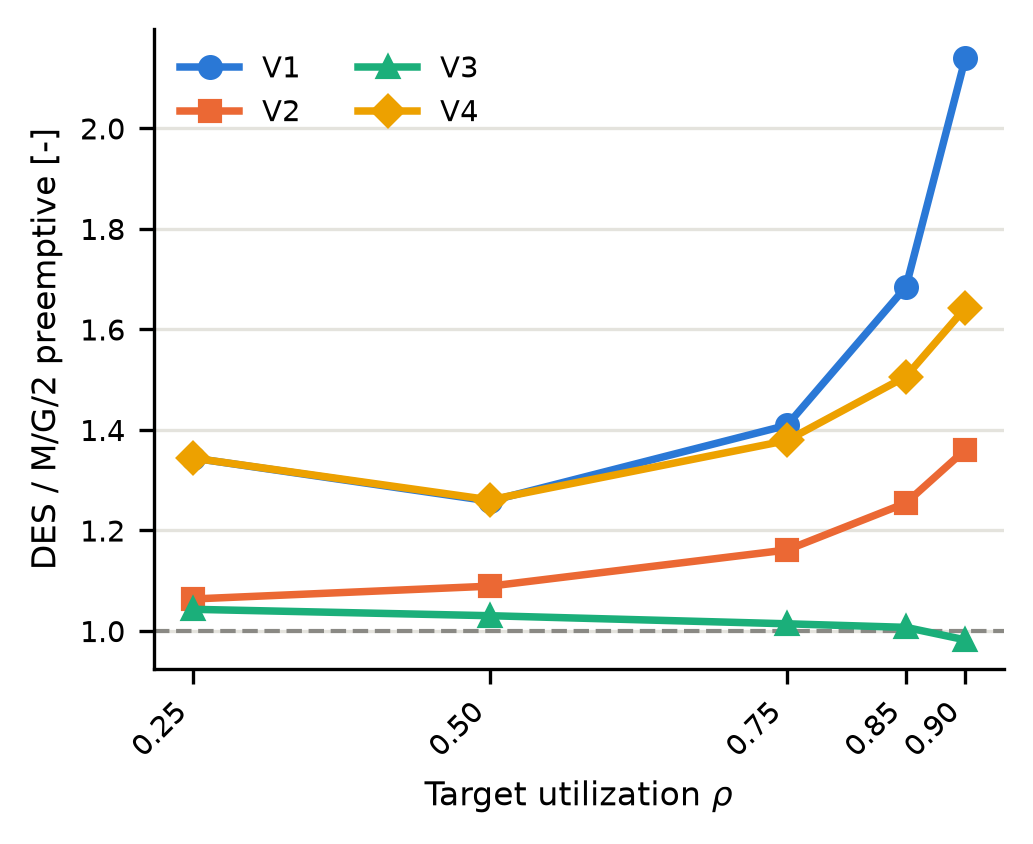
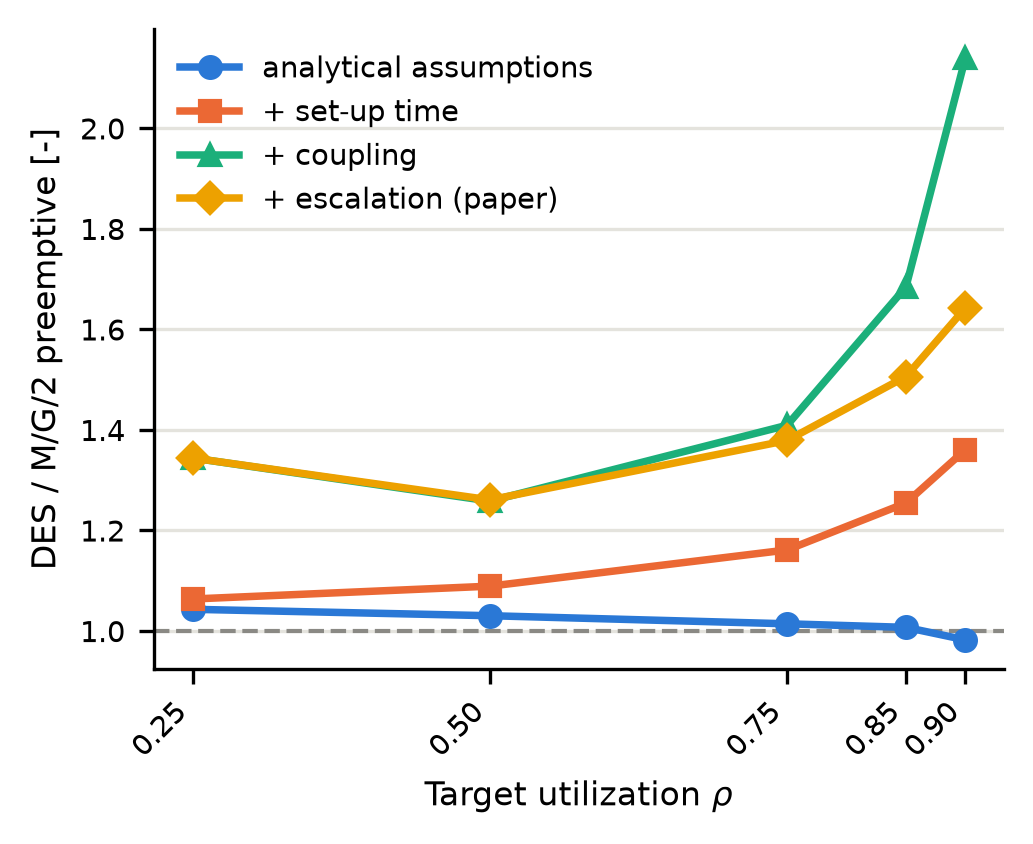
order des variants by added mecha

diff --git a/scripts/analysis/run_analytical_vs_des.py b/scripts/analysis/run_analytical_vs_des.py
@@ -22,14 +22,24 @@ OUTPUT_PNG = RESULTS_DIR / "analytical_vs_des/decomposition_ratio.png"
 # None is the baseline with its own rates and horizon (rho = 0.255); the others match the sensitivity.
 LOADS = [(None, 5000.0), (0.25, 50000.0), (0.50, 50000.0), (0.75, 50000.0), (0.85, 50000.0), (0.90, 50000.0)]
 
-# (identifier, label, build_variant options). The identifier is the series name of the figure.
+# (identifier, label, build_variant options). The variants form a chain: V1 meets the assumptions of
+# the analytical models (no coupling, no escalation, no set-up time after a preemption), and each
+# next variant adds one mechanism of the paper configuration: V2 the set-up time, V3 the coupling of
+# bays and engineers (15 instead of 16 engineers), V4 the escalation. The run order does not affect
+# the numbers: seeds depend only on the replication index (common random numbers).
 DES_VARIANTS = [
-    ("V1", "no escalation, 15 engineers", {"escalation": False}),
+    ("V1", "no escalation, 16 engineers, no set-up time", {"escalation": False, "mechanics": 16, "setup": 0.0}),
     ("V2", "no escalation, 16 engineers", {"escalation": False, "mechanics": 16}),
-    # Closest to the analytical assumptions: no coupling, no escalation and no set-up time after a preemption.
-    ("V3", "no escalation, 16 engineers, no set-up time", {"escalation": False, "mechanics": 16, "setup": 0.0}),
+    ("V3", "no escalation, 15 engineers", {"escalation": False}),
     ("V4", "paper configuration", {}),
 ]
+# Legend of the figure: the mechanism each variant adds, so the figure reads without the identifiers.
+LEGEND_LABELS = {
+    "V1": "analytical assumptions",
+    "V2": "+ set-up time",
+    "V3": "+ coupling",
+    "V4": "+ escalation (paper)",
+}
 
 # (label, DES field, analytical priority field, whether the FCFS model has a value, field of the
 # CM-only M/G/1). The CM-only reference is a single bay serving the CM stream alone, so it speaks
@@ -55,9 +65,11 @@ FIGURE_RHOS = [rho for rho, _ in LOADS if rho is not None]
 FIGURE_CAPTION = (
     "Ratio of the DES mean waiting time to the M/G/2 preemptive-resume approximation over the load, "
     "per DES variant. 1.0 is agreement, above 1.0 the DES waits longer than the analytical model. "
-    "V1 no escalation and 15 engineers, V2 no escalation and 16 engineers, V3 additionally without "
-    "set-up time, V4 the paper configuration. The baseline load is left out because its rates are "
-    "not on the target-rho grid. 30 replications of 50,000 h per point."
+    "Each variant adds one mechanism to the previous one: analytical assumptions (16 engineers, no "
+    "escalation, no set-up time), + set-up time, + coupling (15 engineers), + escalation (paper "
+    "configuration). Up to rho = 0.50 the last two coincide, since hardly any PM task escalates. "
+    "The baseline load is left out because its rates are not on the target-rho grid. 30 replications "
+    "of 50,000 h per point, common random numbers."
 )
 
 
@@ -91,7 +103,7 @@ def plot_decomposition(table: pd.DataFrame) -> None:
             marker=marker,
             markersize=5,
             linewidth=1.8,
-            label=identifier,
+            label=LEGEND_LABELS[identifier],
         )
     ax.set_xlabel(r"Target utilization $\rho$", fontsize=FIGURE_FONT["label"])
     ax.set_ylabel("DES / M/G/2 preemptive [-]", fontsize=FIGURE_FONT["label"])
@@ -101,7 +113,7 @@ def plot_decomposition(table: pd.DataFrame) -> None:
     ax.tick_params(labelsize=FIGURE_FONT["tick"])
     ax.grid(axis="y", color="#e4e3dd", linewidth=0.8)
     ax.spines[["top", "right"]].set_visible(False)
-    ax.legend(loc="upper left", frameon=False, fontsize=FIGURE_FONT["legend"], ncols=2)
+    ax.legend(loc="upper left", frameon=False, fontsize=FIGURE_FONT["legend"])
     fig.savefig(OUTPUT_PNG, dpi=300, bbox_inches="tight")
     plt.close(fig)
 

diff --git a/scripts/analysis/run_threshold_sweep.py b/scripts/analysis/run_threshold_sweep.py
@@ -26,10 +26,13 @@ PLOT_LOADS = ["0.75", "0.85", "0.90"]
 PAPER_THRESHOLD = 14.0
 # Categorical slots 1-3 of the validated palette; the marker shape is the second encoding.
 SERIES = [("Wq", "Total", "#2a78d6", "o"), ("Wq_CM", "CM", "#eb6834", "s"), ("Wq_PM", "PM", "#1baf7a", "^")]
+# Both columns of the ACM template (7.0 in), with the point sizes of the other paper figures.
+FIGURE_SIZE = (7.0, 2.6)
+FIGURE_FONT = {"tick": 7, "label": 8, "legend": 7, "title": 8}
 
 # The image carries no footnote: this text belongs in the caption of the paper, see outputs/MANIFEST.md.
 FIGURE_CAPTION = (
-    "Mean waiting time Wq over the escalation threshold X, one panel per load, each with its own "
+    "Mean waiting time W_q over the escalation threshold X, one panel per load, each with its own "
     "scale. Dashed line: X = 14 h of the paper. X = none is strict priority. Bands: 95 % Student-t "
     "intervals over 30 replications."
 )
@@ -43,21 +46,24 @@ def plot(table: pd.DataFrame) -> None:
     """Wq over X per load, one panel each with its own scale, 95 % band per class."""
     labels = ["none" if x is None else f"{x:g}" for x in THRESHOLDS]
     positions = range(len(labels))
-    fig, axes = plt.subplots(1, len(PLOT_LOADS), figsize=(12, 4), constrained_layout=True)
+    fig, axes = plt.subplots(1, len(PLOT_LOADS), figsize=FIGURE_SIZE, constrained_layout=True)
     for ax, load in zip(axes, PLOT_LOADS, strict=True):
         rows = table[table["load"] == load]
         for column, label, color, marker in SERIES:
             ax.fill_between(positions, rows[f"{column}_ci_lower"], rows[f"{column}_ci_upper"], color=color, alpha=0.15, linewidth=0)
-            ax.plot(positions, rows[column], color=color, marker=marker, markersize=6, linewidth=2, label=label)
+            ax.plot(positions, rows[column], color=color, marker=marker, markersize=4, linewidth=1.5, label=label)
         ax.axvline(THRESHOLDS.index(PAPER_THRESHOLD), color="#8a8984", linestyle="--", linewidth=1)
-        ax.set_title(r"$\rho$ = " + load, color="#1a1a19")
+        ax.set_title(r"$\rho$ = " + load, color="#1a1a19", fontsize=FIGURE_FONT["title"])
         ax.set_xticks(list(positions), labels)
-        ax.set_xlabel("Escalation threshold X [h]")
+        ax.set_xlabel("Escalation threshold $X$ [h]", fontsize=FIGURE_FONT["label"])
+        ax.tick_params(labelsize=FIGURE_FONT["tick"])
         ax.set_ylim(bottom=0)
         ax.grid(axis="y", color="#e4e3dd", linewidth=0.8)
         ax.spines[["top", "right"]].set_visible(False)
-    axes[0].set_ylabel("Mean waiting time Wq [h]")
-    axes[0].legend(loc="upper left", frameon=False)
+    axes[0].set_ylabel("Mean waiting time $W_q$ [h]", fontsize=FIGURE_FONT["label"])
+    # One legend above the panels: inside the first panel it would cover the PM curve.
+    handles, labels = axes[0].get_legend_handles_labels()
+    fig.legend(handles, labels, loc="outside upper center", ncols=len(SERIES), frameon=False, fontsize=FIGURE_FONT["legend"])
     fig.savefig(OUTPUT_PNG, dpi=300, bbox_inches="tight")
     plt.close(fig)
 

diff --git a/scripts/reproduction/run_high_precision_target_rho_sensitivity_analysis.py b/scripts/reproduction/run_high_precision_target_rho_sensitivity_analysis.py
@@ -255,7 +255,7 @@ def plot_main_figure(confidence_intervals: pd.DataFrame, target: Path) -> None:
         rows = band_series(confidence_intervals, metric)
         left.fill_between(rows["target_rho"], rows["ci_lower"], rows["ci_upper"], color=color, alpha=0.25, linewidth=0)
         left.plot(rows["target_rho"], rows["mean"], color=color, marker=marker, markersize=5, linewidth=1.8, label=label)
-    left.set_ylabel("Mean waiting time Wq [h]", fontsize=MAIN_FIGURE_FONT["label"])
+    left.set_ylabel("Mean waiting time $W_q$ [h]", fontsize=MAIN_FIGURE_FONT["label"])
     left.legend(loc="upper left", frameon=False, fontsize=MAIN_FIGURE_FONT["legend"])
 
     metric, label, color, marker = ESCALATION_SERIES

diff --git a/outputs/MANIFEST.md b/outputs/MANIFEST.md
@@ -36,7 +36,7 @@ Common settings: paper configuration from `config/scenarios/stable.json` (preemp
 | --- | --- | --- | --- |
 | M/G/2 FCFS and M/G/2 preemptive against four DES variants, per load (§5.5, §5.7) | `analytical_vs_des/analytical_vs_des.csv` | `scripts/analysis/run_analytical_vs_des.py` | baseline 30 x 5000 h, rho 0.25 to 0.90 30 x 50000 h |
 | M/G/1 fed by the CM stream alone, columns `rho_mg1_cm_only`, `mg1_cm_only`, `ratio_des_to_mg1_cm_only`; Pollaczek-Khinchine with lambda_CM and the CM service distribution (§3.1), filled for the `Wq CM/HP` and `Lq CM/HP` rows only | same | same | analytical, one value per load |
-| Variant identifiers V1 to V4 of the DES variants, column `des_variant_id` | same | same | same |
+| Variant identifiers V1 to V4 of the DES variants, column `des_variant_id`; each adds one mechanism: V1 analytical assumptions (16 engineers, no escalation, no set-up time), V2 + set-up time, V3 + coupling (15 engineers), V4 + escalation (paper configuration) | same | same | same |
 | Figure: ratio DES to M/G/2 preemptive over the load, one line per DES variant, reference line at 1 | `analytical_vs_des/decomposition_ratio.png` | same | rho 0.25 to 0.90; the baseline load is left out, its rates are not on the target-rho grid |
 
 ## Load sensitivity
@@ -90,5 +90,5 @@ they are diagnostics and appendix material.
 | Figure | Caption |
 | --- | --- |
 | `target_rho_sensitivity/waiting_and_escalation_by_target_rho.png` | Left: mean waiting time over the load, split into all tasks, the original CM tasks and all PM tasks. Right: share of PM tasks that escalate. Bands: 95 % Student-t intervals over 30 replications of 50,000 h. |
-| `threshold_sweep/threshold_sweep.png` | Mean waiting time Wq over the escalation threshold X, one panel per load, each with its own scale. Dashed line: X = 14 h of the paper. X = none is strict priority. Bands: 95 % Student-t intervals over 30 replications. |
-| `analytical_vs_des/decomposition_ratio.png` | Ratio of the DES mean waiting time to the M/G/2 preemptive-resume approximation over the load, per DES variant. 1.0 is agreement, above 1.0 the DES waits longer than the analytical model. V1 no escalation and 15 engineers, V2 no escalation and 16 engineers, V3 additionally without set-up time, V4 the paper configuration. The baseline load is left out because its rates are not on the target-rho grid. 30 replications of 50,000 h per point. |
+| `threshold_sweep/threshold_sweep.png` | Mean waiting time W_q over the escalation threshold X, one panel per load, each with its own scale. Dashed line: X = 14 h of the paper. X = none is strict priority. Bands: 95 % Student-t intervals over 30 replications. |
+| `analytical_vs_des/decomposition_ratio.png` | Ratio of the DES mean waiting time to the M/G/2 preemptive-resume approximation over the load, per DES variant. 1.0 is agreement, above 1.0 the DES waits longer than the analytical model. Each variant adds one mechanism to the previous one: analytical assumptions (16 engineers, no escalation, no set-up time), + set-up time, + coupling (15 engineers), + escalation (paper configuration). Up to rho = 0.50 the last two coincide, since hardly any PM task escalates. The baseline load is left out because its rates are not on the target-rho grid. 30 replications of 50,000 h per point, common random numbers. |

diff --git a/README.md b/README.md
@@ -15,7 +15,7 @@ It creates a local `.venv` if needed, installs the pinned dependencies and the p
 
 ## Requirements
 
-- Python `>= 3.12`, tested with `3.14`
+- Python `>= 3.12`; the outputs in `outputs/results/` were produced with Python 3.12.11 and the package versions pinned in `requirements.txt`
 - `bash`
 - Python packages pinned in `requirements.txt`; its last line installs this project with `pip install -e .`
 
